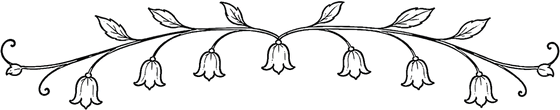
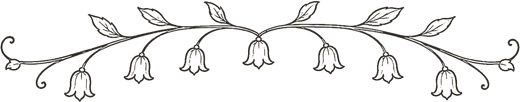
Trois ornements, et un fond enfin transparent
Le fond blanc restait visible, pour deux raisons.

D'abord mix-blend-mode ne pouvait pas fonctionner : l'opacité posée sur la même
image crée un contexte d'empilement, lequel isole l'élément et annule le
mélange. Le blanc réapparaissait donc partout où l'ornement était atténué.

Ensuite, et c'est le plus retors, l'optimiseur d'images de Next aplatit la
couche alpha à certaines largeurs — 640 px, mais ni 384 ni 828 — et rend un PNG
à trois canaux sur fond blanc. Le défaut était donc intermittent, fonction de la
largeur d'écran. Ces fichiers sont désormais servis tels quels.

La transparence est maintenant dans les fichiers : la luminance du gris est
convertie en canal alpha, ce qui préserve l'anti-crénelage du trait là où un
seuil aurait laissé un liseré.

Les ornements passent de six à trois. La gravure des bâtisseurs ouvre la page :
elle était en bas, où l'on ne la voyait qu'après tout avoir lu — donc rarement.

diff --git a/app/chantier/page.tsx b/app/chantier/page.tsx
@@ -82,31 +82,35 @@ function IcoLibre() {
 }
 
 // ── Ornements ────────────────────────────────────────────────────────────────
-// Gravures au trait tirées du dossier d'ornements, détourées et redimensionnées
-// (3,4 Mo ramenés à 255 Ko).
+// Gravures au trait du dossier d'ornements.
 //
-// `mix-blend-mode: multiply` est ce qui les fait tenir sur le fond crème : les
-// fichiers ont un fond blanc, et le multiplier avec la page le fait disparaître
-// tout en gardant l'anti-crénelage du trait. Rendre le blanc transparent au
-// détourage aurait laissé un liseré clair autour de chaque trait.
-const MELANGE: React.CSSProperties = { mixBlendMode: "multiply", display: "block", margin: "0 auto", height: "auto" };
+// Leur fond est VRAIMENT transparent : la luminance du gris a été convertie en
+// canal alpha, si bien que le trait garde son anti-crénelage et que rien de
+// blanc ne subsiste. La première version s'appuyait sur mix-blend-mode:
+// multiply, qui ne pouvait pas fonctionner — l'opacité posée sur la même image
+// crée un contexte d'empilement, lequel isole l'élément et annule le mélange.
+// Le blanc restait donc visible partout où l'ornement était atténué.
+const POSE: React.CSSProperties = { display: "block", margin: "0 auto", height: "auto" };
 
-/** Les ornements de séparation. Chacun ne paraît qu'une fois : un motif répété
- *  cesse d'être un ornement pour devenir un habillage. */
+/** Trois ornements, pas davantage : au-delà, ils cessent de ponctuer la page
+ *  pour l'encombrer. Chacun ne paraît qu'une fois. */
 const ORNEMENTS = {
-  vigne:      { src: "/ornements/vigne-grappe.png", w: 520, h: 247 },
-  clochettes: { src: "/ornements/clochettes.png",   w: 560, h: 110 },
-  lampes:     { src: "/ornements/lampes.png",       w: 520, h: 157 },
-  puits:      { src: "/ornements/puits.png",        w: 340, h: 230 },
-  etoiles:    { src: "/ornements/bois-etoiles.png", w: 380, h: 272 },
+  batisseurs: { src: "/ornements/chantier.png",     w: 880, h: 471 },
+  vigne:      { src: "/ornements/vigne-grappe.png", w: 460, h: 219 },
+  clochettes: { src: "/ornements/clochettes.png",   w: 520, h: 102 },
 } as const;
 
-function Ornement({ nom, largeur, opacite = 1 }: { nom: keyof typeof ORNEMENTS; largeur: number; opacite?: number }) {
+function Ornement({ nom, largeur, opacite = 1, alt = "" }: { nom: keyof typeof ORNEMENTS; largeur: number; opacite?: number; alt?: string }) {
   const o = ORNEMENTS[nom];
   return (
-    <Image src={o.src} alt="" aria-hidden="true" width={o.w} height={o.h}
-      sizes={`${largeur}px`}
-      style={{ ...MELANGE, width: largeur, maxWidth: "100%", opacity: opacite }} />
+    // `unoptimized` n'est pas une facilité. À certaines largeurs — 640 px, mais
+    // pas 384 ni 828 —, l'optimiseur rend un PNG à trois canaux : la couche
+    // alpha est aplatie sur du blanc, et le fond réapparaît. Le défaut est donc
+    // intermittent, fonction de la largeur d'écran. Ces fichiers sont déjà
+    // détourés, dimensionnés et légers ; les servir tels quels est plus sûr.
+    <Image src={o.src} alt={alt} aria-hidden={alt ? undefined : true} width={o.w} height={o.h}
+      unoptimized
+      style={{ ...POSE, width: largeur, maxWidth: "100%", opacity: opacite }} />
   );
 }
 
@@ -117,22 +121,6 @@ function Siecle({ n }: { n: string }) {
     <span style={{ fontVariant: "small-caps", textTransform: "lowercase" }}>
       {n}<sup style={{ fontVariant: "normal", fontSize: "0.72em" }}>e</sup>
     </span>
-  );
-}
-
-/** Cul-de-lampe : la gravure des bâtisseurs, en bas de page.
- *
- *  Des anges et des ouvriers montant la muraille d'une cité — elle dit le
- *  chantier mieux qu'un fleuron, et c'est le seul ornement de la page à porter
- *  un sujet plutôt qu'un motif. D'où sa place tout en bas : on la regarde
- *  quand on a fini de lire.
- */
-function CulDeLampe() {
-  return (
-    <Image src="/ornements/chantier.png"
-      alt="Des anges et des ouvriers bâtissant la muraille d'une cité"
-      width={880} height={471} sizes="(max-width: 640px) 88vw, 440px"
-      style={{ ...MELANGE, width: '100%', maxWidth: '440px' }} />
   );
 }
 
@@ -362,7 +350,12 @@ function ConnexionInscription({ router }: { router: ReturnType<typeof useRouter>
 
       {/* ── Premier écran : un bloc entier, rien de coupé ── */}
       <header className="cs-ecran">
-        <Ornement nom="vigne" largeur={200} />
+        {/* La gravure des bâtisseurs ouvre la page : c'est le seul ornement à
+            porter un sujet, et il dit le chantier mieux que le bandeau qui
+            l'annonce. Elle était en bas, où l'on ne la voyait qu'après tout
+            avoir lu — donc rarement. */}
+        <Ornement nom="batisseurs" largeur={400}
+          alt="Des anges et des ouvriers bâtissant la muraille d’une cité" />
         <h1 className="cs-enseigne">Corpus Scriptura</h1>
         <p className="cs-titre">L’Écriture, et ce que les Pères en ont dit</p>
 
@@ -423,8 +416,6 @@ function ConnexionInscription({ router }: { router: ReturnType<typeof useRouter>
           </p>
         </div>
 
-        <div style={{ margin: "34px 0 30px" }}><Ornement nom="lampes" largeur={220} opacite={0.7} /></div>
-
         {/* ── Être prévenu, et soutenir ── */}
         <div className="cs-cartes">
           <div className="cs-carte" style={{ background: "#fff", border: "1px solid #ddd8cf", borderRadius: "12px", padding: "24px 26px" }}>
@@ -451,8 +442,6 @@ function ConnexionInscription({ router }: { router: ReturnType<typeof useRouter>
             </a>
           </div>
         </div>
-
-        <div style={{ margin: "34px 0 26px" }}><Ornement nom="puits" largeur={110} opacite={0.65} /></div>
 
         {/* ── Connexion ── */}
         <div className="cs-connexion" style={{ background: "#fff", border: "1px solid #ddd8cf", borderRadius: "12px", padding: "30px 32px 34px", width: "100%", maxWidth: "380px", margin: "0 auto", boxShadow: "0 4px 24px rgba(0,0,0,0.05)" }}>
@@ -517,8 +506,6 @@ function ConnexionInscription({ router }: { router: ReturnType<typeof useRouter>
         )}
         </div>
 
-        <div style={{ margin: "40px 0 6px" }}><Ornement nom="etoiles" largeur={130} opacite={0.6} /></div>
-
         {/* ── Démarchage ── */}
         <aside style={{ marginTop: "34px", border: "1px solid #ddc9c2", background: "#fdf6f4", borderRadius: "10px", padding: "20px 24px", maxWidth: "660px", marginLeft: "auto", marginRight: "auto" }}>
           <p style={{ fontSize: "9px", fontWeight: 700, letterSpacing: "0.16em", textTransform: "uppercase", color: "#9a4a3a", margin: "0 0 10px" }}>
@@ -540,9 +527,7 @@ function ConnexionInscription({ router }: { router: ReturnType<typeof useRouter>
         </aside>
 
         {/* ── Cul-de-lampe ── */}
-        <div style={{ marginTop: "44px", opacity: 0.85 }}>
-          <CulDeLampe />
-        </div>
+        <div style={{ marginTop: "46px" }}><Ornement nom="vigne" largeur={180} opacite={0.75} /></div>
 
       </div>
     </main>
